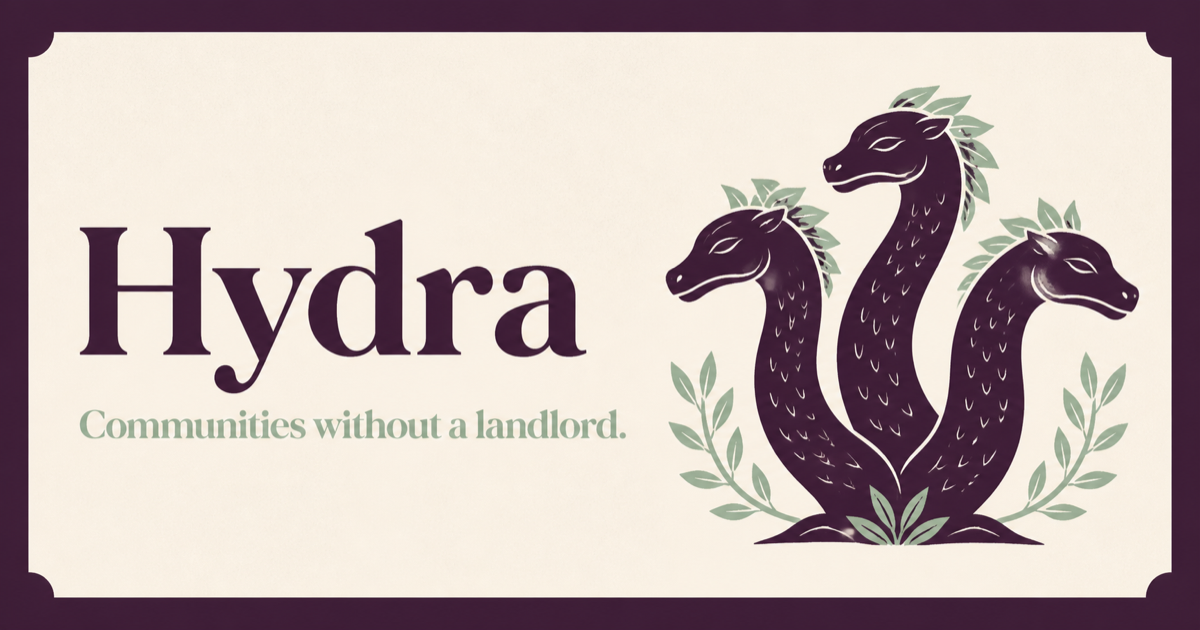
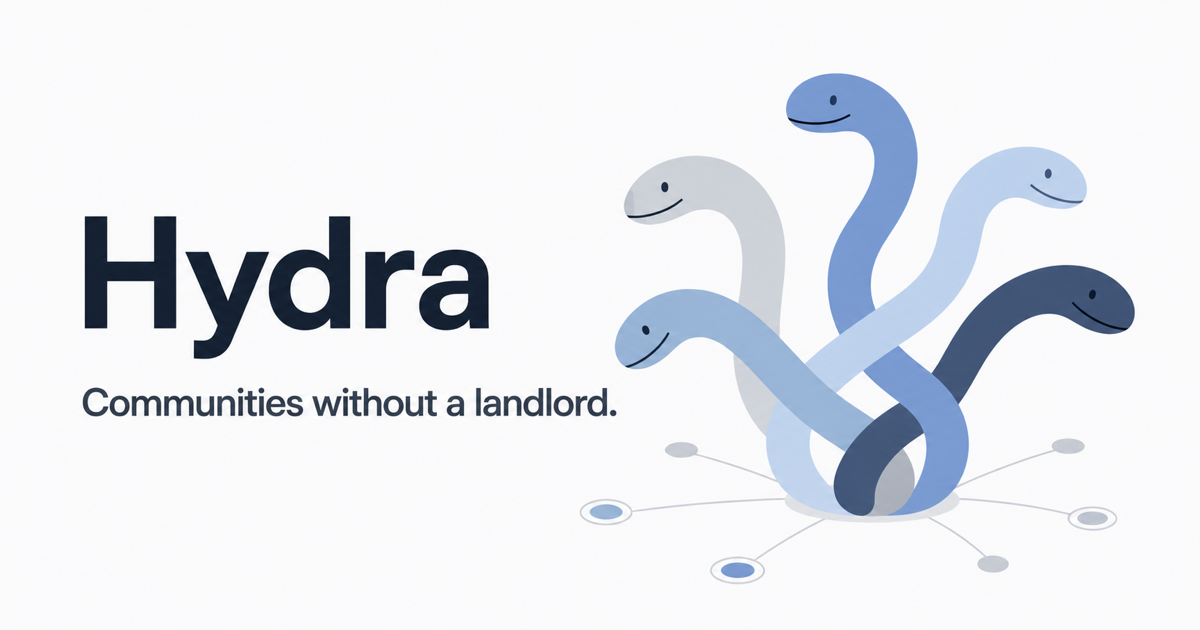
Move Hydra site to cool neutral palette

diff --git a/site/assets/style.css b/site/assets/style.css
@@ -1,18 +1,15 @@
 :root {
   color-scheme: light;
-  --canvas: #f4f1eb;
-  --paper: #fffdf8;
-  --benefit-surface: #ebe7de;
-  --ink: #241c25;
-  --muted: #665e67;
-  --plum: #2b1235;
-  --plum-light: #4b2559;
-  --mint: #dff4e5;
-  --blue: #dfeaf4;
-  --lilac: #e9e0ef;
-  --peach: #f4e4d8;
-  --stone: #e8e6df;
-  --line: rgba(43, 18, 53, 0.14);
+  --canvas: #f6f8fb;
+  --paper: #ffffff;
+  --benefit-surface: #fbfcfd;
+  --ink: #17202b;
+  --muted: #5d6672;
+  --plum: #1f2937;
+  --plum-light: #334155;
+  --soft-blue: #eaf1f7;
+  --soft-gray: #eef1f4;
+  --line: rgba(23, 32, 43, 0.13);
   --line-dark: rgba(255, 255, 255, 0.18);
   --page: 76rem;
   --radius: 1.5rem;
@@ -51,7 +48,7 @@ a {
 }
 
 :focus-visible {
-  outline: 3px solid #a45abb;
+  outline: 3px solid #4777a6;
   outline-offset: 4px;
 }
 
@@ -192,7 +189,7 @@ h3 {
 }
 
 .button.secondary:hover {
-  border-color: rgba(43, 18, 53, 0.32);
+  border-color: rgba(31, 41, 55, 0.32);
 }
 
 .button.disabled {
@@ -235,7 +232,7 @@ h3 {
 }
 
 .hero .button.secondary:hover {
-  border-color: rgba(43, 18, 53, 0.32);
+  border-color: rgba(31, 41, 55, 0.32);
 }
 
 .availability {
@@ -251,7 +248,7 @@ h3 {
   border-radius: 1.1rem;
   background: #f7f9fb;
   color: #25313d;
-  box-shadow: 0 1.75rem 4rem rgba(10, 3, 13, 0.34);
+  box-shadow: 0 1.75rem 4rem rgba(15, 23, 42, 0.18);
   transform: rotate(1.25deg);
 }
 
@@ -415,7 +412,7 @@ h3 {
 .benefit p {
   max-width: 35rem;
   margin: 0;
-  color: #4f4650;
+  color: #46505c;
   font-size: clamp(1rem, 1.5vw, 1.16rem);
 }
 
@@ -426,10 +423,10 @@ h3 {
   display: grid;
   place-items: center;
   margin-bottom: 2.25rem;
-  border: 1px solid rgba(36, 28, 37, 0.17);
+  border: 1px solid rgba(23, 32, 43, 0.16);
   border-radius: 1rem;
-  background: rgba(36, 28, 37, 0.035);
-  color: #5d595d;
+  background: rgba(23, 32, 43, 0.035);
+  color: #5b6571;
 }
 
 .benefit-icon b,
@@ -574,7 +571,7 @@ h3 {
   align-items: center;
   gap: 0.65rem;
   margin-top: 2rem;
-  color: #5d595d;
+  color: #5b6571;
   font-size: 0.78rem;
   font-weight: 700;
 }
@@ -582,7 +579,7 @@ h3 {
 .trust-line i {
   width: clamp(1rem, 4vw, 4rem);
   height: 1px;
-  background: rgba(36, 28, 37, 0.25);
+  background: rgba(23, 32, 43, 0.24);
 }
 
 .familiar {
@@ -622,7 +619,7 @@ h3 {
 }
 
 .topic-pair .hydra-topic {
-  background: var(--mint);
+  background: var(--soft-blue);
 }
 
 .topic-prefix,
@@ -691,7 +688,7 @@ h3 {
   gap: clamp(1.5rem, 4vw, 3rem);
   padding: clamp(1.75rem, 4vw, 3.25rem);
   border-radius: var(--radius);
-  background: var(--lilac);
+  background: var(--soft-gray);
 }
 
 .closing img {
@@ -762,7 +759,7 @@ h3 {
 
 .step-number {
   align-self: start;
-  color: #8a738f;
+  color: #738197;
   font: 650 1.35rem/1 "Iowan Old Style", Georgia, serif;
 }
 
@@ -784,7 +781,7 @@ h3 {
   min-height: 7rem;
   padding: 1.25rem;
   border-radius: 1rem;
-  background: var(--mint);
+  background: var(--soft-blue);
 }
 
 .step-example strong {
@@ -810,18 +807,18 @@ h3 {
   margin-left: -0.55rem;
   border: 4px solid var(--canvas);
   border-radius: 50%;
-  background: var(--blue);
+  background: var(--soft-blue);
   color: var(--plum);
   font-weight: 800;
 }
 
 .persona-stack span:first-child {
   margin-left: 0;
-  background: var(--peach);
+  background: var(--soft-gray);
 }
 
 .persona-stack span:last-child {
-  background: var(--lilac);
+  background: var(--soft-gray);
 }
 
 .flock-example {
@@ -838,7 +835,7 @@ h3 {
 .flock-example span:last-child {
   padding: 0.65rem 0.85rem;
   border-radius: 0.75rem;
-  background: var(--peach);
+  background: var(--soft-gray);
 }
 
 .split-section {
@@ -865,7 +862,7 @@ h3 {
 }
 
 .boundary-columns section:last-child {
-  background: var(--blue);
+  background: var(--soft-blue);
 }
 
 .boundary-columns h3 {
@@ -902,7 +899,7 @@ h3 {
   padding: clamp(2rem, 5vw, 4rem);
   border-radius: var(--radius);
   background: var(--plum);
-  color: #e9ddec;
+  color: #d8e1ea;
 }
 
 .survival h2 {
@@ -913,7 +910,7 @@ h3 {
 .survival > div:first-child p,
 .survival > p {
   margin: 0;
-  color: #cbbbd0;
+  color: #bec9d5;
 }
 
 .survival-flow {
@@ -970,7 +967,7 @@ h3 {
   padding: clamp(1.5rem, 4vw, 2.5rem);
   border: 1px solid var(--line);
   border-radius: var(--radius);
-  background: var(--mint);
+  background: var(--soft-blue);
 }
 
 .download-focus h2 {

diff --git a/site/index.html b/site/index.html
@@ -3,23 +3,23 @@
 <head>
   <meta charset="utf-8">
   <meta name="viewport" content="width=device-width, initial-scale=1">
-  <meta name="theme-color" content="#f4f1eb">
+  <meta name="theme-color" content="#f6f8fb">
   <meta name="description" content="Hydra is a free discussion app with no ads, no company in charge, and no owners of its communities.">
   <meta http-equiv="Content-Security-Policy" content="default-src 'self'; connect-src 'self' https://api.github.com; img-src 'self' data:; style-src 'self'; script-src 'self'; object-src 'none'; base-uri 'self'; form-action 'none'; upgrade-insecure-requests">
   <meta property="og:type" content="website">
   <meta property="og:title" content="Hydra — Communities without a landlord">
   <meta property="og:description" content="A discussion app with no ads and no company in charge.">
   <meta property="og:url" content="https://andersaamodt.github.io/Hydra/">
-  <meta property="og:image" content="https://andersaamodt.github.io/Hydra/assets/og.png">
+  <meta property="og:image" content="https://andersaamodt.github.io/Hydra/assets/og.png?v=4">
   <meta name="twitter:card" content="summary_large_image">
   <meta name="twitter:title" content="Hydra — Communities without a landlord">
   <meta name="twitter:description" content="A discussion app with no ads and no company in charge.">
-  <meta name="twitter:image" content="https://andersaamodt.github.io/Hydra/assets/og.png">
+  <meta name="twitter:image" content="https://andersaamodt.github.io/Hydra/assets/og.png?v=4">
   <link rel="canonical" href="https://andersaamodt.github.io/Hydra/">
   <link rel="icon" href="assets/favicon.png" type="image/png">
   <link rel="apple-touch-icon" href="assets/hydra-icon.png">
-  <link rel="stylesheet" href="assets/style.css?v=3">
-  <script src="assets/site.js?v=3" defer></script>
+  <link rel="stylesheet" href="assets/style.css?v=4">
+  <script src="assets/site.js?v=4" defer></script>
   <title>Hydra — Communities without a landlord</title>
 </head>
 <body>

diff --git a/site/how/index.html b/site/how/index.html
@@ -3,19 +3,19 @@
 <head>
   <meta charset="utf-8">
   <meta name="viewport" content="width=device-width, initial-scale=1">
-  <meta name="theme-color" content="#f4f1eb">
+  <meta name="theme-color" content="#f6f8fb">
   <meta name="description" content="How Hydra handles topics, personas, moderation, and public data.">
   <meta http-equiv="Content-Security-Policy" content="default-src 'self'; connect-src 'self' https://api.github.com; img-src 'self' data:; style-src 'self'; script-src 'self'; object-src 'none'; base-uri 'self'; form-action 'none'; upgrade-insecure-requests">
   <meta property="og:type" content="website">
   <meta property="og:title" content="How Hydra works">
   <meta property="og:description" content="Pick a topic, make a persona, and choose whose judgment you trust.">
   <meta property="og:url" content="https://andersaamodt.github.io/Hydra/how/">
-  <meta property="og:image" content="https://andersaamodt.github.io/Hydra/assets/og.png">
+  <meta property="og:image" content="https://andersaamodt.github.io/Hydra/assets/og.png?v=4">
   <meta name="twitter:card" content="summary_large_image">
   <link rel="canonical" href="https://andersaamodt.github.io/Hydra/how/">
   <link rel="icon" href="../assets/favicon.png" type="image/png">
-  <link rel="stylesheet" href="../assets/style.css?v=3">
-  <script src="../assets/site.js?v=3" defer></script>
+  <link rel="stylesheet" href="../assets/style.css?v=4">
+  <script src="../assets/site.js?v=4" defer></script>
   <title>How Hydra works</title>
 </head>
 <body>

diff --git a/site/download/index.html b/site/download/index.html
@@ -3,19 +3,19 @@
 <head>
   <meta charset="utf-8">
   <meta name="viewport" content="width=device-width, initial-scale=1">
-  <meta name="theme-color" content="#f4f1eb">
+  <meta name="theme-color" content="#f6f8fb">
   <meta name="description" content="Download Hydra for macOS, Windows, or Linux.">
   <meta http-equiv="Content-Security-Policy" content="default-src 'self'; connect-src 'self' https://api.github.com; img-src 'self' data:; style-src 'self'; script-src 'self'; object-src 'none'; base-uri 'self'; form-action 'none'; upgrade-insecure-requests">
   <meta property="og:type" content="website">
   <meta property="og:title" content="Download Hydra">
   <meta property="og:description" content="Free software for ownerless communities.">
   <meta property="og:url" content="https://andersaamodt.github.io/Hydra/download/">
-  <meta property="og:image" content="https://andersaamodt.github.io/Hydra/assets/og.png">
+  <meta property="og:image" content="https://andersaamodt.github.io/Hydra/assets/og.png?v=4">
   <meta name="twitter:card" content="summary_large_image">
   <link rel="canonical" href="https://andersaamodt.github.io/Hydra/download/">
   <link rel="icon" href="../assets/favicon.png" type="image/png">
-  <link rel="stylesheet" href="../assets/style.css?v=3">
-  <script src="../assets/site.js?v=3" defer></script>
+  <link rel="stylesheet" href="../assets/style.css?v=4">
+  <script src="../assets/site.js?v=4" defer></script>
   <title>Download Hydra</title>
 </head>
 <body class="download-page">
